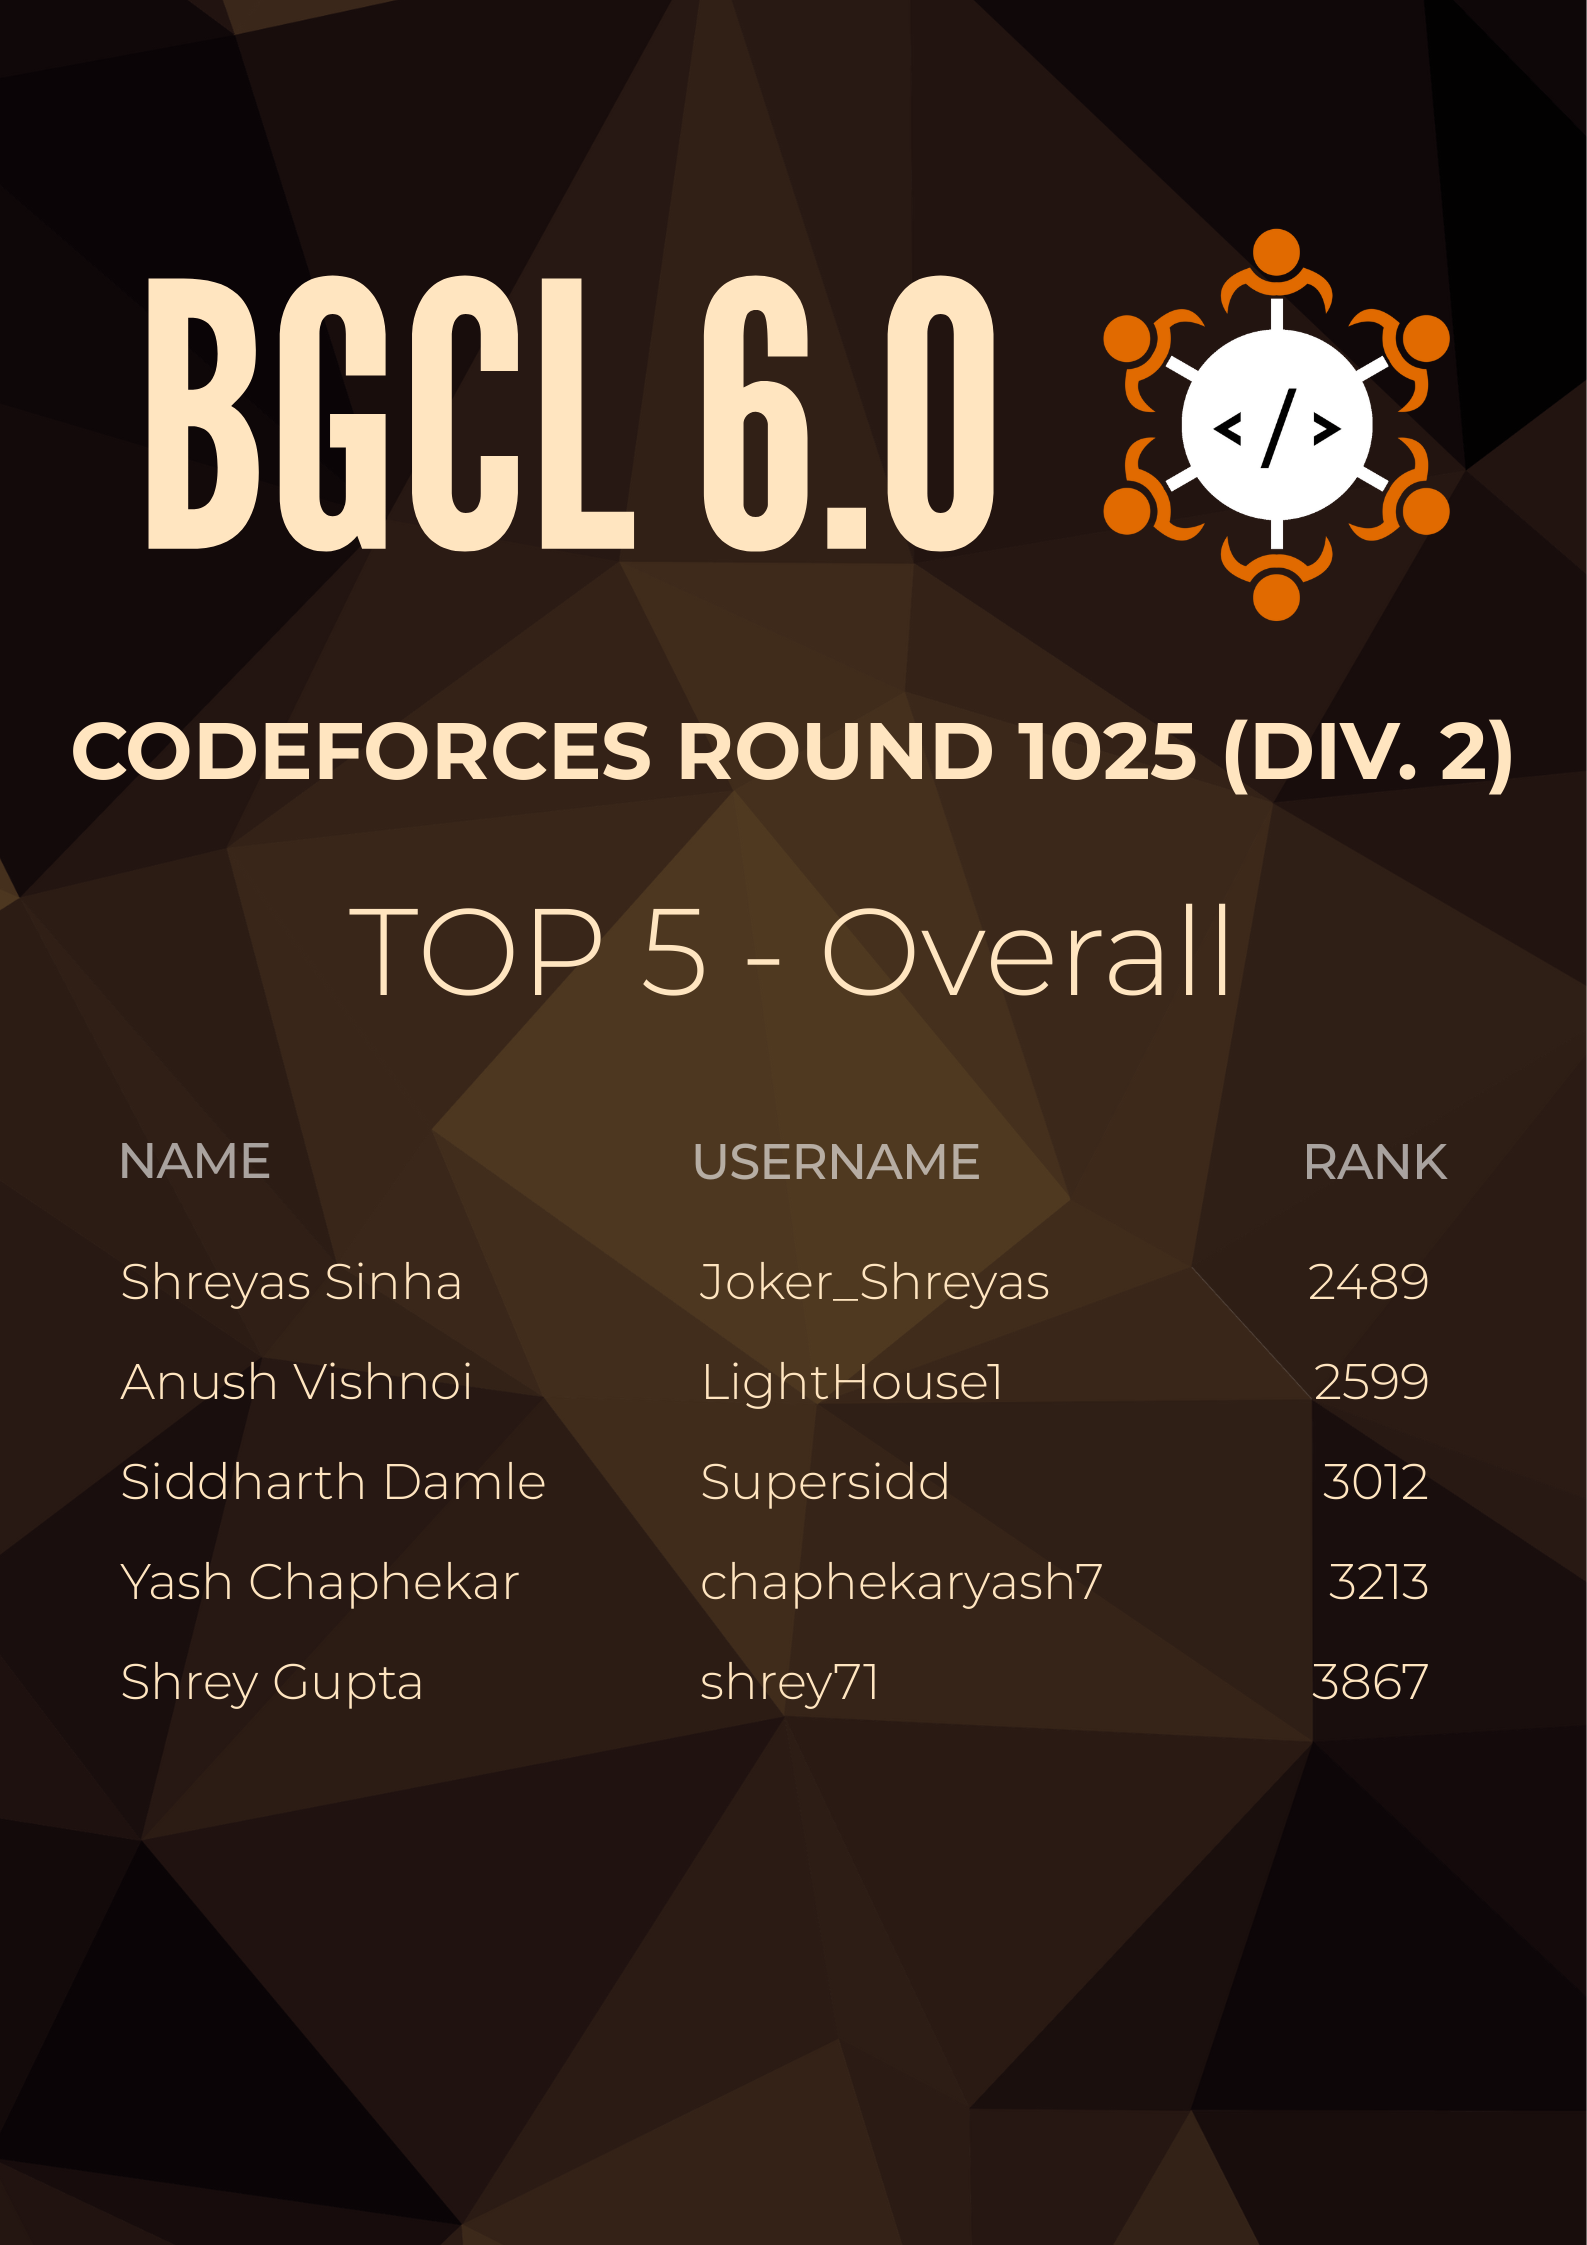
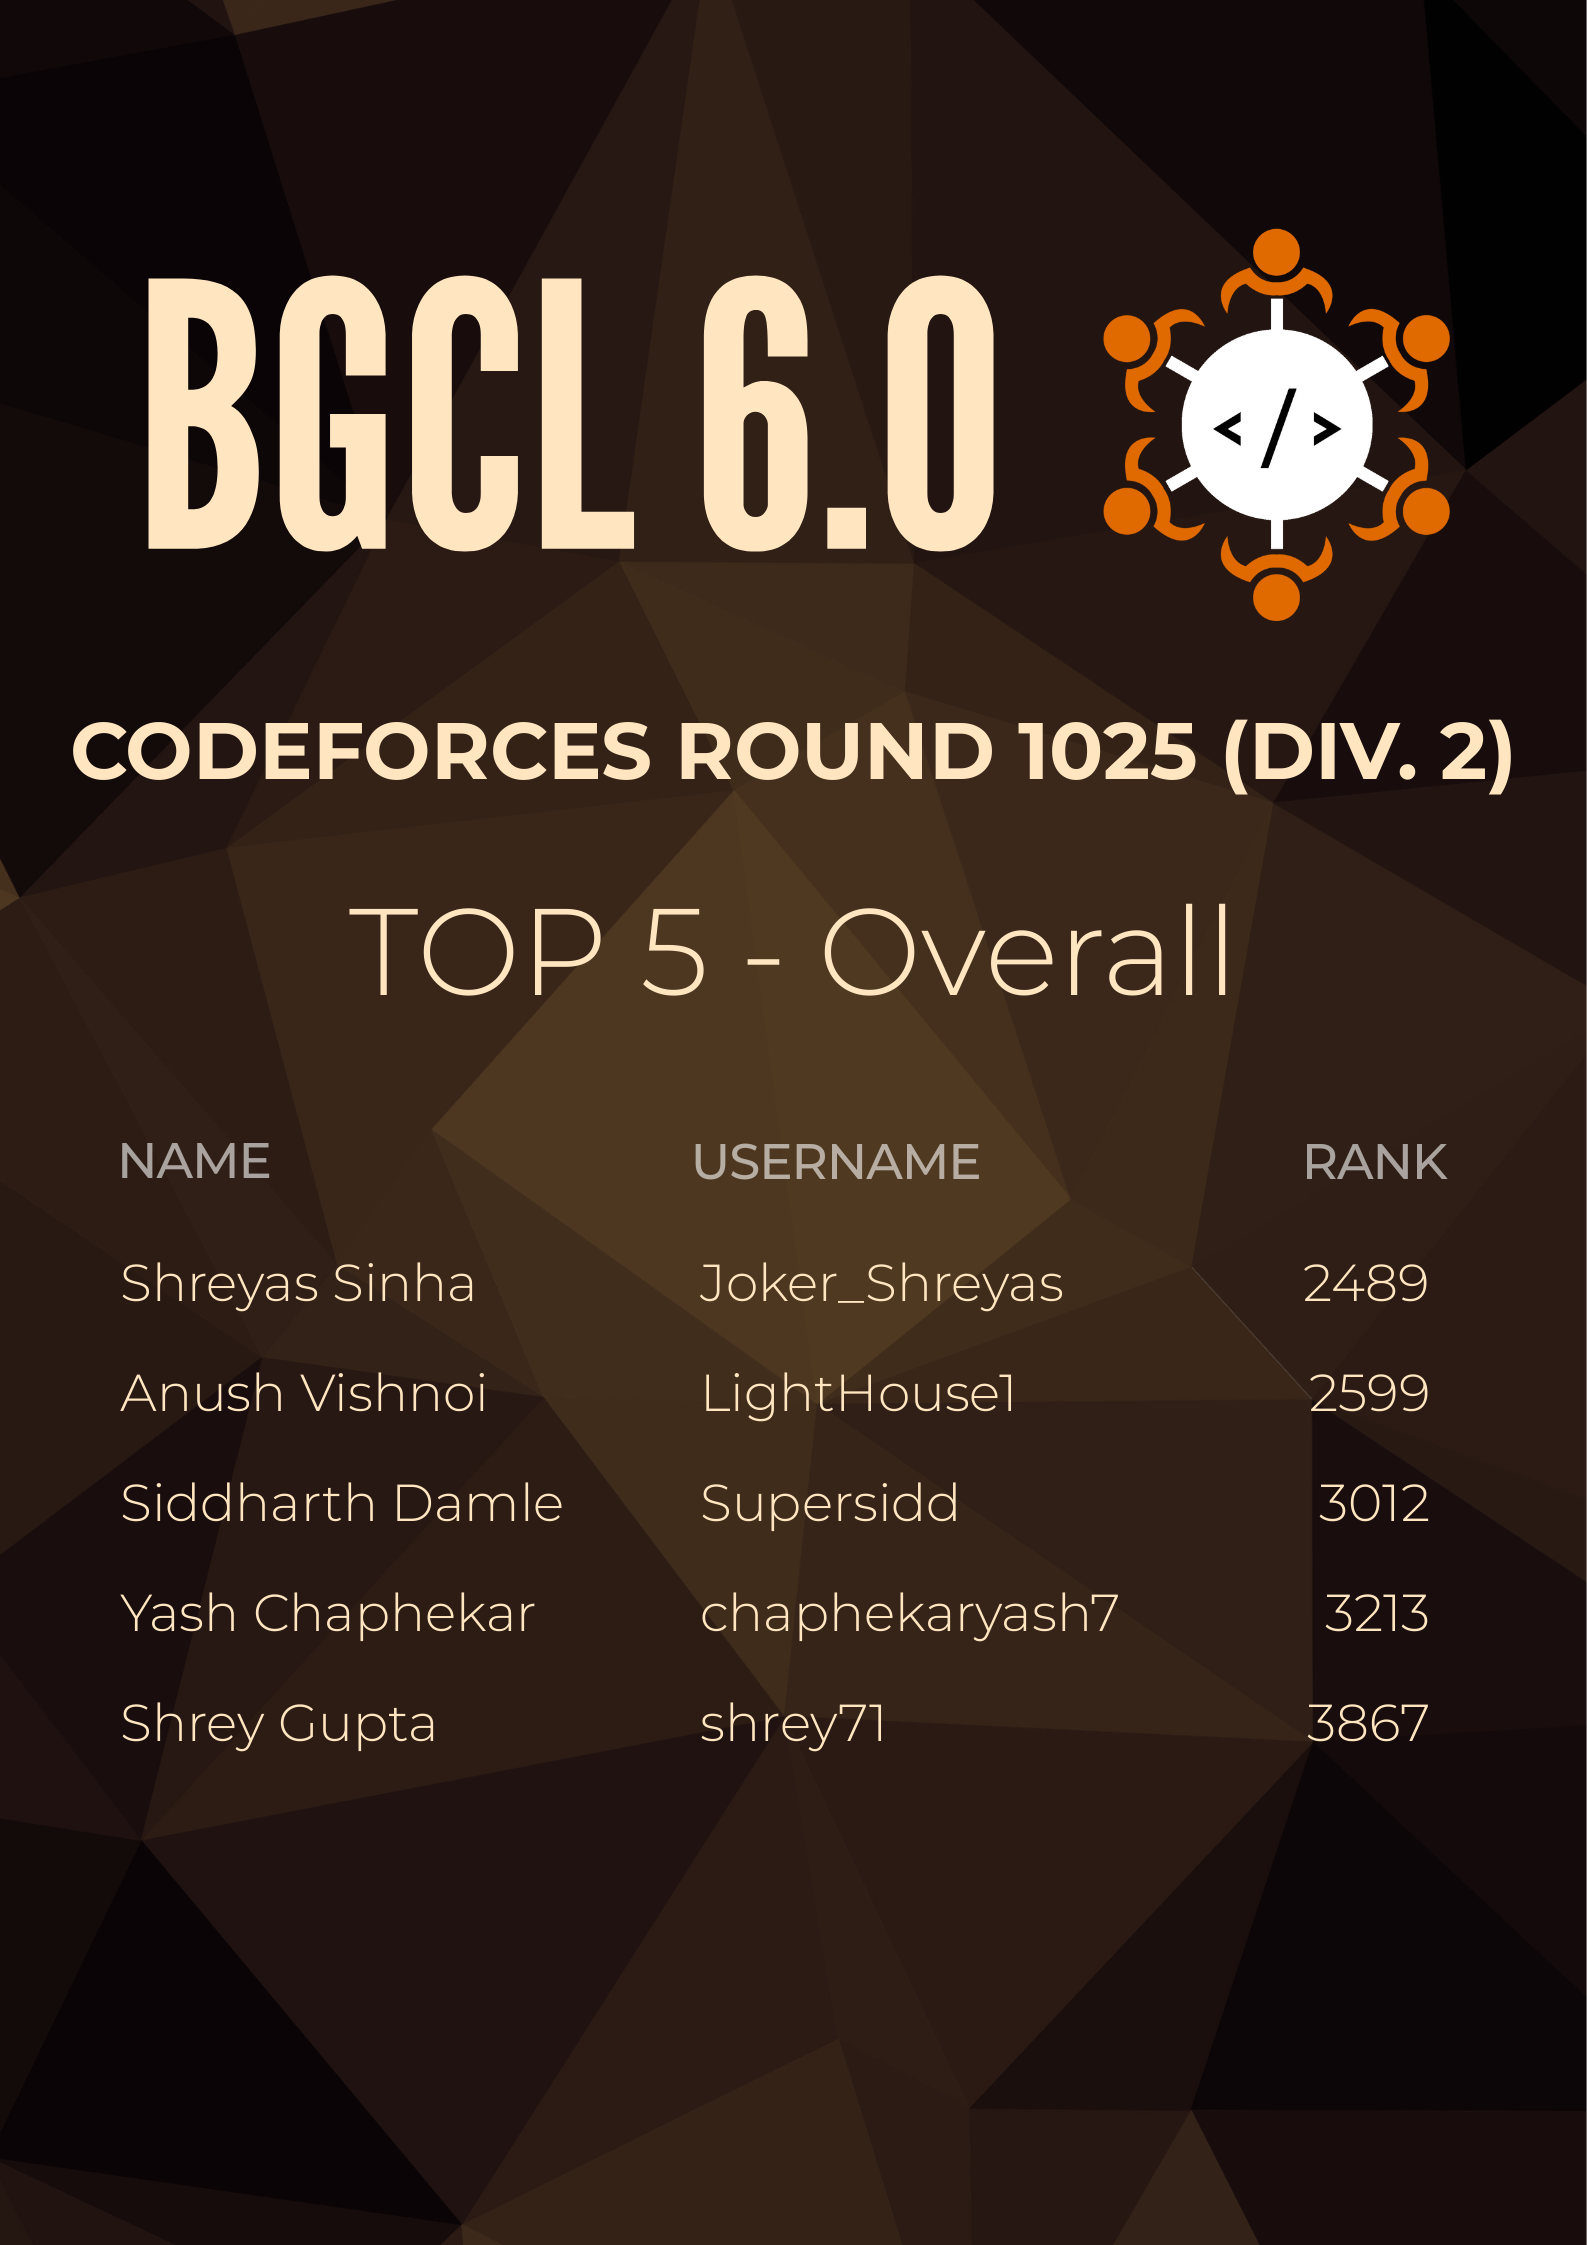
final touches

diff --git a/main.py b/main.py
@@ -80,7 +80,7 @@ draw = ImageDraw.Draw(background)
 # Load font
 font_path = "./fonts/Montserrat-Light.ttf"
 title_font = ImageFont.truetype(font_path, 123)
-line_font = ImageFont.truetype(font_path, 50)
+line_font = ImageFont.truetype(font_path, 52)
 
 # Title
 # draw.text((width // 2, 100), "Top 5 Coders", font=title_font, fill=textColour[imageSelected], anchor="mm")
@@ -94,7 +94,7 @@ draw.text((width//2, 950), descText, font = title_font, fill = textColour[imageS
 
 # Table start
 start_y = 1250
-gap = 100
+gap = 110
 x_name = 120
 x_handle = 700
 x_points = 1430
